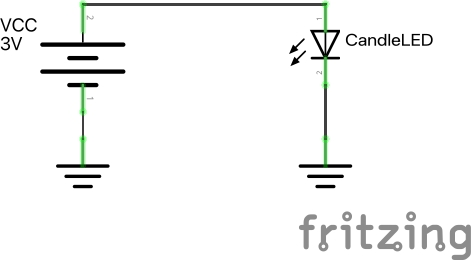
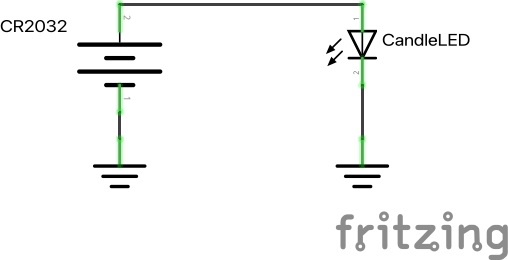
[FlashingLED] add notes

diff --git a/Electronics101/LED/FlashingLED/README.md b/Electronics101/LED/FlashingLED/README.md
@@ -1,0 +1,42 @@
+# #717 Flashing LEDs
+
+A quick test and review of a range of 5mm flashing LEDs: red , slow RGB, fast RGB.
+
+![Build](./assets/FlashingLED_build.jpg?raw=true)
+
+Here's a quick demo..
+
+[![clip](https://img.youtube.com/vi/7EdzYHdnOAo/0.jpg)](https://www.youtube.com/watch?v=7EdzYHdnOAo)
+
+## Notes
+
+I have a range of flashing LEDs in by parts drawers.
+These are 3mm and 5mm form-factor clear LEDs, but contain  all the circuitry to flash - no external components required. Very convenient when a simple flashing effect is required.
+
+They come in different configurations, for example, I have on hand:
+
+* 5mm Red flash
+* 5mm RGB Slow flash
+* 5mm RGB Flash flash
+
+These are widely available.
+For example:
+[this seller on aliexpress](https://www.aliexpress.com/item/1005007519775384.html) has a full range of 3mm, 5mm, Red, RGB flashing options. Look for listings similar to:
+
+> 100Pcs 3mm 5mm Led Diode Flashing White Red Green Blue Yellow RGB Fast Slow Flash Diffused Clear Color Changing Light Emitting
+
+### Circuit Design
+
+A single LED can easily be powered from a CR2032 coin cell.
+
+For this demo I'm running 9 LEDs in parallel (3x red, 3x slow RGB, 3x fast RGB), so I'm running it from a bench power supply set to 3V. It draws around 40mA peak.
+
+![bb](./assets/FlashingLED_bb.jpg?raw=true)
+
+![schematic](./assets/FlashingLED_schematic.jpg?raw=true)
+
+![bb_build](./assets/FlashingLED_bb_build.jpg?raw=true)
+
+## Credits and References
+
+* [100Pcs 3mm 5mm Led Diode Flashing White Red Green Blue Yellow RGB Fast Slow Flash Diffused Clear Color Changing Light Emitting](https://www.aliexpress.com/item/1005007519775384.html) - seller listing on aliexpress

diff --git a/README.md b/README.md
@@ -1,4 +1,4 @@
-# 737 Little Electronic Art Projects
+# 738 Little Electronic Art Projects
 
 > Latest addition:sparkles: [HT12 Simple Demo](./Radio/LPD433/HT12/SimpleDemo) - A demo of the HT12D decoder and HT12E encoder ICs used with an LPD433 module to broadcast 4 bits of data to an 8-bit address on the 433 MHz UHF/70-centimeter band.
 
